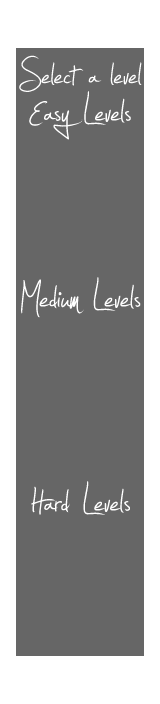
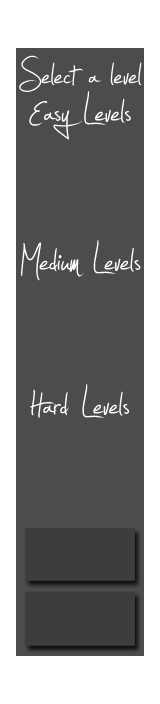
Tidying up gui. Water direction is random on every level.

diff --git a/src/towerdefence/GameplayState.java b/src/towerdefence/GameplayState.java
@@ -82,9 +82,9 @@ public class GameplayState extends BasicGameState implements ComponentListener {
     ParticleSystem ps;
 
     private UnicodeFont unicodeFont;
+    private UnicodeFont tempestaFont;
     private TowerManager towerFactory;
     private RenderWater waterAnimation;
-    private Animation wanderingNPCAnim;
 
     public static int TILESIZE;
     private int startX;
@@ -112,6 +112,8 @@ public class GameplayState extends BasicGameState implements ComponentListener {
     private GameContainer container;
     private TextField helpText;
     private boolean showHelp;
+    private Image start;
+    private MouseOverArea startArea;
 
     GameplayState() {
     }
@@ -160,8 +162,10 @@ public class GameplayState extends BasicGameState implements ComponentListener {
         waterAnimation = new RenderWater(map.getWidth()+5,map.getHeight());
         
         unicodeFont = new UnicodeFont("fonts/Jellyka_Estrya_Handwriting.ttf", 50, false, false);
-//        unicodeFont = new UnicodeFont("data/fonts/ArchitectsDaughter.ttf", 13, false, false);
         unicodeFont.getEffects().add(new ColorEffect(java.awt.Color.white));
+        
+        tempestaFont = new UnicodeFont("fonts/pf_tempesta_seven.ttf", 8, false, false);
+        tempestaFont.getEffects().add(new ColorEffect(java.awt.Color.white));
         
         helpText = new TextField(container, container.getGraphics().getFont(), 
                 (int)(container.getWidth()/2-300), (int)(container.getHeight()/2-80), 475, 200);
@@ -173,6 +177,11 @@ public class GameplayState extends BasicGameState implements ComponentListener {
                 + "R : Restart\n"
                 + "Esc : Level select screen\n"
                 + "Manage your money and keep the critters at bay!");
+        
+        start = new Image("gui/start.png");
+        startArea = new MouseOverArea(container, start, guiLeftX-5, guiBottomY-75, 140, 40, this);
+        startArea.setMouseOverColor(Color.black);
+        startArea.setMouseDownColor(Color.black);
         
         startWaves = false;
         
@@ -219,14 +228,7 @@ public class GameplayState extends BasicGameState implements ComponentListener {
         critterAnimation[NORMAL] = spriteLoader.getCritterAnimation(NORMAL);
         critterAnimation[FIRE] = spriteLoader.getCritterAnimation(FIRE);
         critterAnimation[ICE] = spriteLoader.getCritterAnimation(ICE);
-        
-        // Load the wandering NPC - He who's purpose is to question purpose
-        Image normalSheet = new Image("sprites/wandering_trader2.png");
-        SpriteSheet critterSheet = new SpriteSheet(normalSheet, 32, 64);
-        Image[] wanderingNPC = {critterSheet.getSprite(0, 0),critterSheet.getSprite(1, 0),
-            critterSheet.getSprite(2, 0), critterSheet.getSprite(3, 0),
-            critterSheet.getSprite(4, 0), critterSheet.getSprite(5, 0)};
-        wanderingNPCAnim = new Animation(wanderingNPC, 230,true);
+
         validTile = new Image("sprites/validTileSelect.png");
         invalidTile = new Image("sprites/invalidTileSelect.png");
         tileHighlight = validTile;
@@ -349,7 +351,7 @@ public class GameplayState extends BasicGameState implements ComponentListener {
         });
     }
 
-    private void renderGuiText() {
+    private void renderGuiText(Graphics g) {
         
         unicodeFont.drawString(guiLeftX+15, guiTopY+5,
                 "Level: "+String.valueOf(getLevel().getLevelName()));
@@ -367,21 +369,24 @@ public class GameplayState extends BasicGameState implements ComponentListener {
 //        unicodeFont.drawString(50, 160,
 //                "# of Towers : " + String.valueOf(towerFactory.getTowers().size()), Color.white);
         
-        unicodeFont.drawString(guiLeftX+25, guiTopY+200, "TOWERS");
+        unicodeFont.drawString(guiLeftX+25, guiTopY+250, "TOWERS");
         
-        if (startWaves) {
-            unicodeFont.drawString(guiLeftX + 15, guiBottomY - 100,
-                    "Next wave in :", Color.white);
+        if (startWaves && !gameOver) {
+            unicodeFont.drawString(guiLeftX + 15, guiBottomY - 95,
+                    " Next wave in:", Color.white);
             if (waveCounter > 0) {
                 unicodeFont.drawString(guiLeftX + 30, guiBottomY - 70,
                         String.valueOf(waveCounter / 1000) + " seconds", Color.white);
             }
-        } else if (!startWaves) {
-            unicodeFont.drawString(guiLeftX + 25, guiBottomY - 95,
-                    "Press Enter", Color.white);
-            unicodeFont.drawString(guiLeftX + 25, guiBottomY - 75,
-                    "   to begin", Color.white);
+        } else {
+//            unicodeFont.drawString(guiLeftX + 25, guiBottomY - 95,
+//                    "Press Enter", Color.white);
+//            unicodeFont.drawString(guiLeftX + 25, guiBottomY - 75,
+//                    "   to begin", Color.white);
+            startArea.render(container, g);
         }
+        
+        tempestaFont.drawString(guiLeftX+25, guiBottomY-115, "Press F1 for help");
     }
     
     private void setSelectedTower(int type) throws SlickException {
@@ -402,7 +407,7 @@ public class GameplayState extends BasicGameState implements ComponentListener {
         for(int i=0;i<3;i++) {
             guiTowerList.get(i).setPosition(new Vector2f( 
                     (float)(Math.floor((guiLeftX+16+(i*32)) / GameplayState.TILESIZE))*32, 
-                    (float)(Math.floor((guiTopY+272)/GameplayState.TILESIZE))*32));
+                    (float)(Math.floor((guiTopY+304)/GameplayState.TILESIZE))*32));
             guiTowerList.get(i).setType(i);
             guiTowerList.get(i).setSprites(towerSprites[i]);
             guiTowerList.get(i).AddComponent(new ImageRenderComponent("TowerRender",
@@ -419,6 +424,7 @@ public class GameplayState extends BasicGameState implements ComponentListener {
         generateCounter -= delta;
         
         unicodeFont.loadGlyphs(1);
+        tempestaFont.loadGlyphs(1);
 
 //        ArrayList<Critter> tempCritterList = new ArrayList<Critter>();
 
@@ -518,9 +524,7 @@ public class GameplayState extends BasicGameState implements ComponentListener {
             gameoverImage.drawCentered(container.getWidth()/2,container.getHeight()/2);
         }
         
-        renderGuiText();
-
-        wanderingNPCAnim.draw(50f, 32f);
+        renderGuiText(g);
 
         for(Tower guiTower : guiTowerList) {
             guiTower.render(container, game, g);
@@ -552,7 +556,12 @@ public class GameplayState extends BasicGameState implements ComponentListener {
         this.level = level;
     }
 
+    @Override
     public void componentActivated(AbstractComponent source) {
+        
+        if(source==startArea) {
+            startWaves=true;
+        }
         
     }
 }

diff --git a/src/towerdefence/LevelSelectState.java b/src/towerdefence/LevelSelectState.java
@@ -40,13 +40,13 @@ public class LevelSelectState extends BasicGameState implements ComponentListene
     private int guiBottomY = 656;
     
     private int easyLevelTopY = 140;
-    private int mediumLevelTopY = 320;
-    private int hardLevelTopY = 520;
+    private int mediumLevelTopY = 280;
+    private int hardLevelTopY = 425;
     
     private int TILESIZE = 32;
     
     private MouseOverArea snakeArea,forkArea,zigzagArea,
-            squareArea,leftArea,haichArea;
+            squareArea,leftArea,haichArea,loadArea,quitArea;
     
     private ArrayList<MouseOverArea> areas = new ArrayList<MouseOverArea>();
     
@@ -56,7 +56,8 @@ public class LevelSelectState extends BasicGameState implements ComponentListene
     private Image square;
     private Image left;
     private Image haich;
-    
+    private Image load;
+    private Image quit;
     
     private LevelLoader level=null;
     private TiledMap map=null;
@@ -65,6 +66,9 @@ public class LevelSelectState extends BasicGameState implements ComponentListene
     
     TextField helpText;
     private boolean showHelp;
+    private GameContainer container;
+    
+    
     
     LevelSelectState() {
     }
@@ -87,6 +91,8 @@ public class LevelSelectState extends BasicGameState implements ComponentListene
         square = new Image("gui/levels/square.png");
         left = new Image("gui/levels/left.png");
         haich = new Image("gui/levels/haich.png");
+        load = new Image("gui/levels/load.png");
+        quit = new Image("gui/levels/quit.png");
         
         zigzagArea = new MouseOverArea(container, zigzag, guiLeftX, easyLevelTopY, 140, 40, this);
         squareArea = new MouseOverArea(container, square, guiLeftX, easyLevelTopY+40, 140, 40, this);
@@ -94,6 +100,8 @@ public class LevelSelectState extends BasicGameState implements ComponentListene
         forkArea = new MouseOverArea(container, fork, guiLeftX, mediumLevelTopY+40,140, 40, this);
         leftArea = new MouseOverArea(container, left, guiLeftX, hardLevelTopY,140, 40, this);
         haichArea = new MouseOverArea(container, haich, guiLeftX, hardLevelTopY+40,140, 40, this);
+        loadArea = new MouseOverArea(container, load, guiLeftX-5, 540,140, 40, this);
+        quitArea = new MouseOverArea(container, quit, guiLeftX-5, 600,140, 40, this);
         
         
         snakeArea.setMouseOverColor(new Color(1, 1f, 0.7f, 0.8f));
@@ -102,6 +110,8 @@ public class LevelSelectState extends BasicGameState implements ComponentListene
         leftArea.setMouseOverColor(new Color(1, 1f, 0.7f, 0.8f));
         haichArea.setMouseOverColor(new Color(1, 1f, 0.7f, 0.8f));
         squareArea.setMouseOverColor(new Color(1, 1f, 0.7f, 0.8f));
+        loadArea.setMouseOverColor(new Color(1, 1f, 0.7f, 0.8f));
+        quitArea.setMouseOverColor(new Color(1, 1f, 0.7f, 0.8f));
         
         unicodeFont = new UnicodeFont("fonts/Jellyka_Estrya_Handwriting.ttf", 100, false, false);
         unicodeFont.getEffects().add(new ColorEffect(java.awt.Color.BLACK));
@@ -120,6 +130,7 @@ public class LevelSelectState extends BasicGameState implements ComponentListene
         
         
         this.game = game;
+        this.container = container;
     }
 
     public void render(GameContainer container, StateBasedGame game, Graphics g) throws SlickException {
@@ -140,9 +151,9 @@ public class LevelSelectState extends BasicGameState implements ComponentListene
         squareArea.render(container, g);
         leftArea.render(container, g); 
         haichArea.render(container, g);
+        loadArea.render(container, g);
+        quitArea.render(container, g);
         
-        unicodeFont.drawString(64, 32, "Select a level and press the spacebar to begin\n"
-                + "Press F 1  for help");
         
         if(showHelp){
             helpText.render(container, g);
@@ -150,6 +161,7 @@ public class LevelSelectState extends BasicGameState implements ComponentListene
                 
     }
 
+    @Override
     public void update(GameContainer container, StateBasedGame game, int delta) throws SlickException {
         unicodeFont.loadGlyphs(1);
         
@@ -159,6 +171,7 @@ public class LevelSelectState extends BasicGameState implements ComponentListene
         
     }
 
+    @Override
     public void componentActivated(AbstractComponent source)  {
         try {
         if (source == zigzagArea) {
@@ -197,26 +210,22 @@ public class LevelSelectState extends BasicGameState implements ComponentListene
                 map = new TiledMap(level.getMapPath());
             
         }
-        } catch (SlickException ex) {
-                Logger.getLogger(LevelSelectState.class.getName()).log(Level.SEVERE, null, ex);
-            }
-    }
-
-    /**
-     * @see org.newdawn.slick.BasicGame#keyPressed(int, char)
-     */
-    @Override
-    public void keyPressed(int key, char c) {
-        if (key == Input.KEY_SPACE) {
+        if (source == loadArea) {
             
-            if(level!=null) {
+            if (level != null) {
                 GameplayState gameplaystate = new GameplayState();
-                    gameplaystate.setLevel(level);
-                    game.addState(gameplaystate);
-                    game.enterState(TowerDefence.GAMEPLAYSTATE);
+                gameplaystate.setLevel(level);
+                game.addState(gameplaystate);
+                game.enterState(TowerDefence.GAMEPLAYSTATE);
             }
             
         }
+        if (source == quitArea) {
+            container.exit();
+        }
+        } catch (SlickException ex) {
+                Logger.getLogger(LevelSelectState.class.getName()).log(Level.SEVERE, null, ex);
+            }
     }
     
 }

diff --git a/src/towerdefence/renderWater.java b/src/towerdefence/renderWater.java
@@ -31,13 +31,21 @@ public final class RenderWater {
         Image water = new Image("tilesets/water.png");
         waterSheet = new SpriteSheet(water, 32, 32);
         waterFrames = new Image[8];
-        setWaterLeft();
+        setRandomWater();
 
     }
 
-    public void setWaterLeft() {
+    public void setRandomWater() {
+        
+        java.util.Random random = new java.util.Random();
+        int xWater = random.nextInt(3);
+        int yWater = random.nextInt(3);
+        if(xWater == 1 || yWater == 1) {
+            xWater = 0;
+            yWater = 0;
+        }
         for(int x=0;x<waterFrames.length;x++) {
-            waterFrames[x]=waterSheet.getSprite(x*3, 1);
+            waterFrames[x]=waterSheet.getSprite(x*3+xWater, yWater);
         }
         waterAnimation = new Animation(waterFrames, 100,true);
     }
